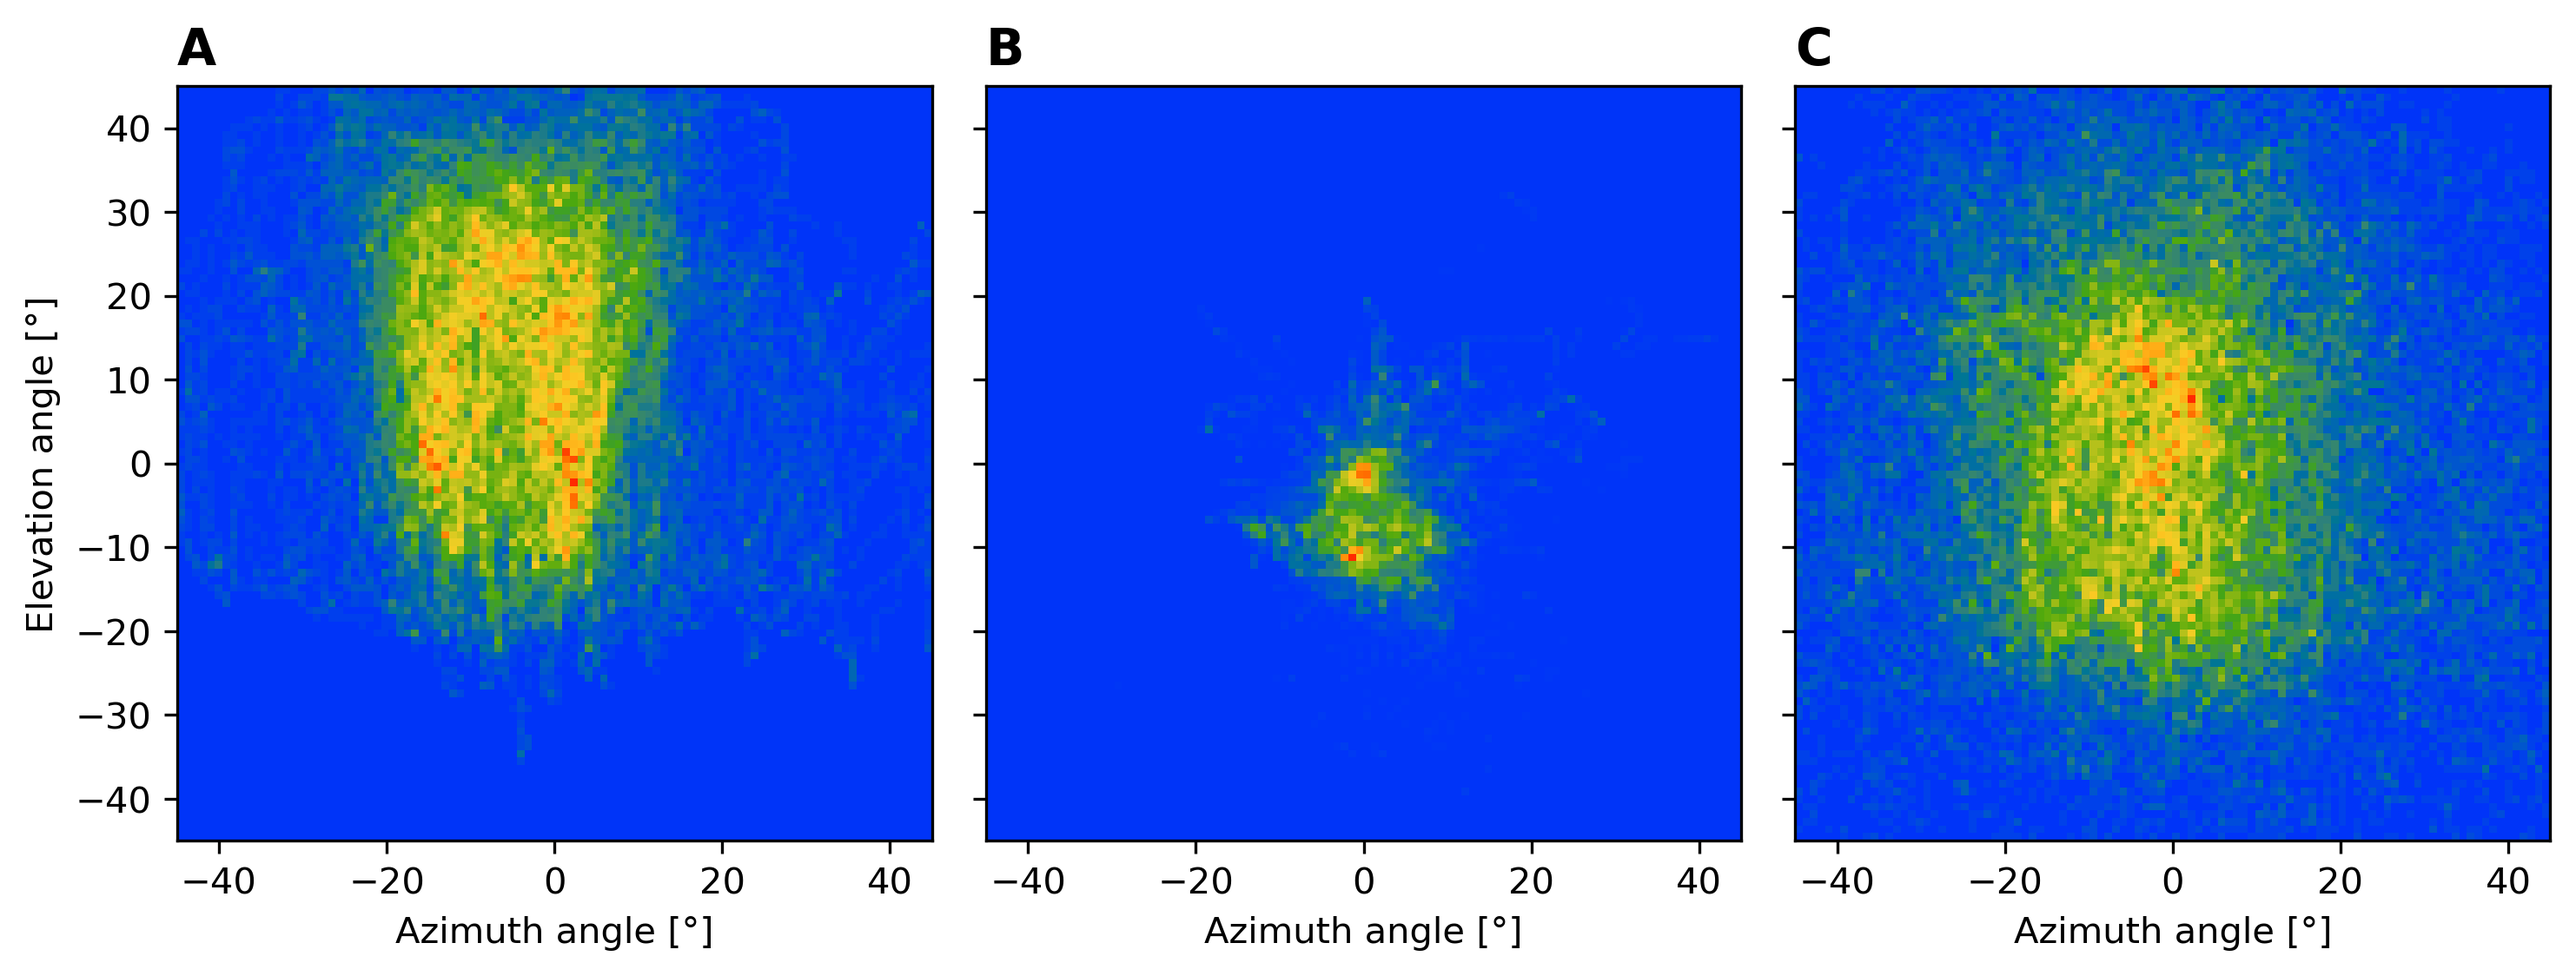
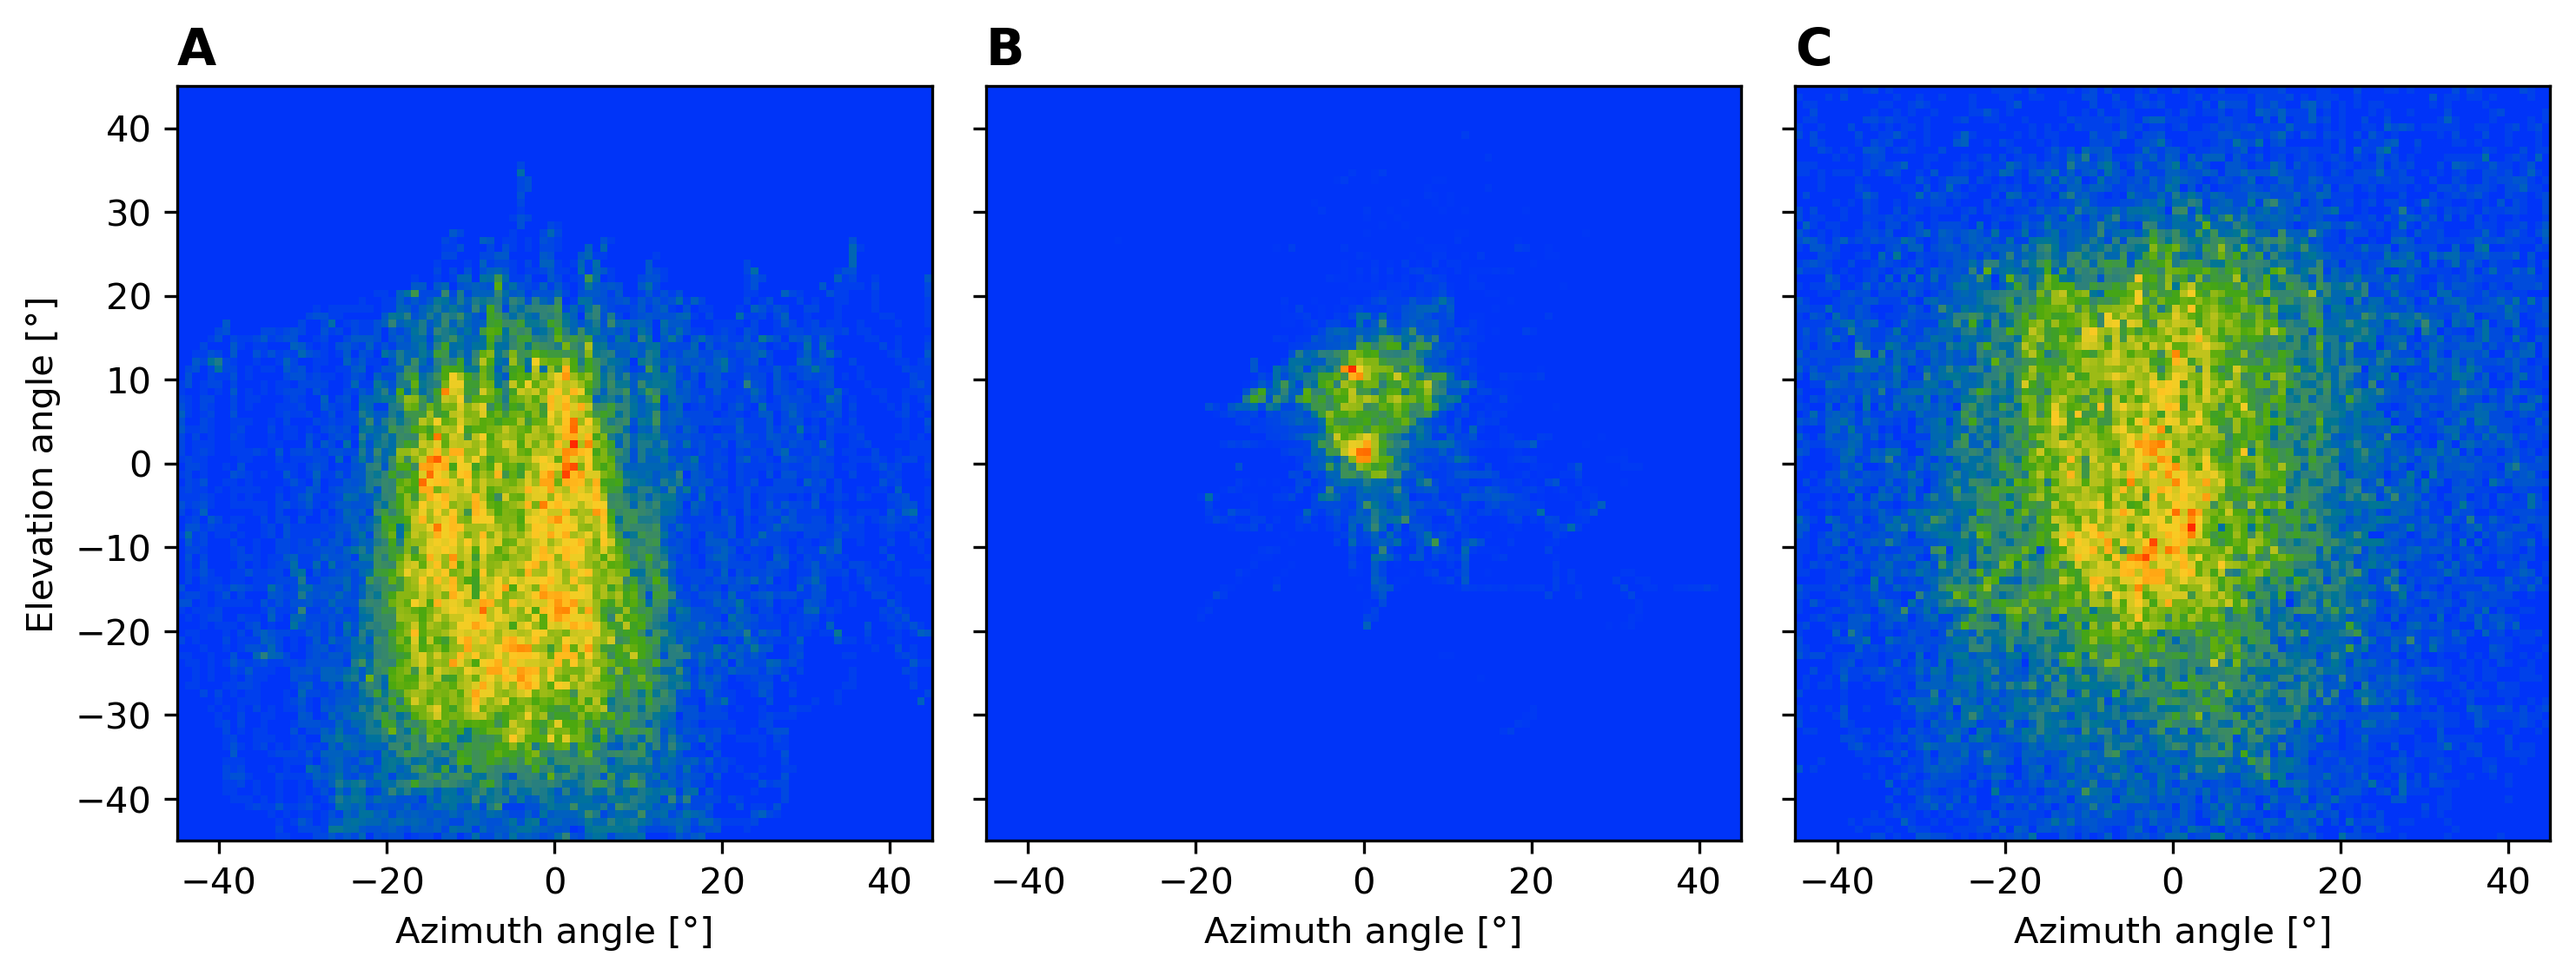
Fix flipped heatmaps in etra2020.ipynb

diff --git a/examples/utils.py b/examples/utils.py
@@ -400,7 +400,7 @@ def cartesian_to_spherical(
     data.values = np.stack((r, theta, phi), axis=axis)
 
     data = data.rename({dim: new_dim})
-    data[new_dim].values = ['r', 'theta', 'phi']
+    data[new_dim] = ['r', 'theta', 'phi']
 
     return data
 
